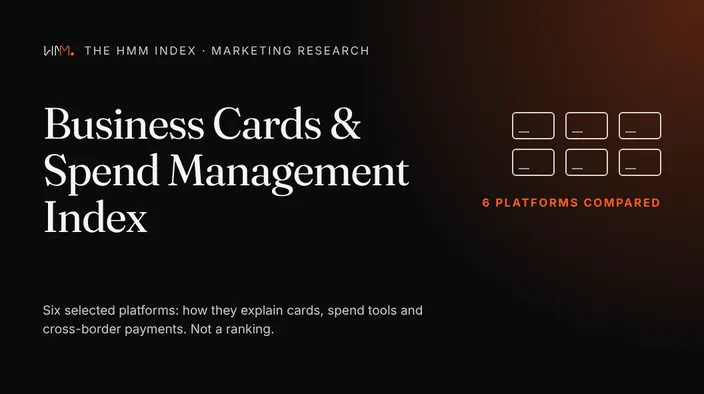
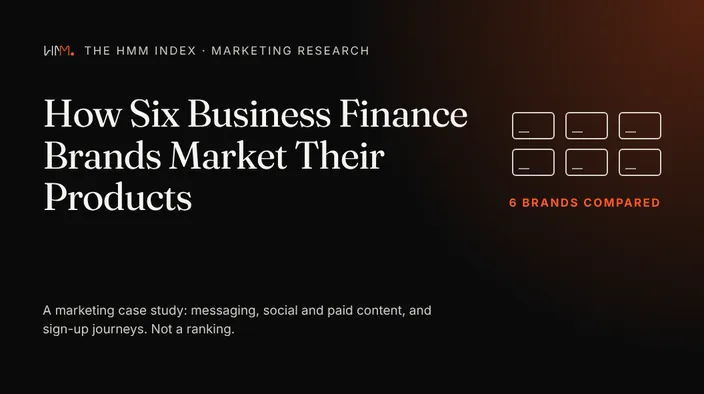
Business finance case study artwork with the current title
Regenerated hero.webp and hero-704.webp from artwork.html: How Six
Business Finance Brands Market Their Products, 6 brands compared, and
a case study line. Used by the HMM Index card and the finance page.

Claude-Session: https://claude.ai/code/session_018Zqg63gvGy44sVUM5NEbiy

Changed region(s): [[0.0625, 0.2437, 0.6875, 0.6091], [0.0625, 0.7614, 0.625, 0.8528], [0.6875, 0.4873, 0.8125, 0.5482]]

diff --git a/_kit/business-spend/artwork.html b/_kit/business-spend/artwork.html
@@ -6,7 +6,7 @@ html,body{margin:0;background:#0B0B0B}
 .art{position:relative;width:1056px;height:591px;overflow:hidden;background:radial-gradient(circle at 100% 0,rgba(255,90,31,.30),rgba(11,11,11,0) 44%),#0B0B0B;color:#F7F6F2;font-family:Inter,sans-serif}
 .k{position:absolute;left:64px;top:62px;display:flex;align-items:center;gap:13px;font-size:17px;letter-spacing:.14em;color:#CFCBC2}
 .k img{height:16px;width:auto}
-h1{position:absolute;left:64px;top:150px;width:640px;margin:0;font-family:Fraunces,serif;font-weight:400;font-size:66px;line-height:1.06;letter-spacing:-.02em;color:#F7F6F2}
+h1{position:absolute;left:64px;top:138px;width:660px;margin:0;font-family:Fraunces,serif;font-weight:400;font-size:58px;line-height:1.08;letter-spacing:-.02em;color:#F7F6F2}
 .cards{position:absolute;right:64px;top:168px;display:grid;grid-template-columns:repeat(3,64px);gap:14px 16px}
 .cards span{width:64px;height:41px;border:2px solid #F7F6F2;border-radius:6px;opacity:.85;box-sizing:border-box;position:relative}
 .cards span::after{content:"";position:absolute;left:8px;bottom:8px;width:16px;height:2px;background:#F7F6F2;opacity:.7}
@@ -14,8 +14,8 @@ h1{position:absolute;left:64px;top:150px;width:640px;margin:0;font-family:Fraunc
 .sub{position:absolute;left:64px;top:452px;width:620px;font-size:19px;line-height:1.45;color:#CFCBC2}
 </style></head><body>
 <div class="art"><div class="k"><img src="/assets/brand/hmm-mark.svg" alt="">THE HMM INDEX &middot; MARKETING RESEARCH</div>
-<h1>Business Cards &amp; Spend Management Index</h1>
+<h1>How Six Business Finance Brands Market Their Products</h1>
 <div class="cards"><span></span><span></span><span></span><span></span><span></span><span></span></div>
-<div class="tag">6 PLATFORMS COMPARED</div>
-<div class="sub">Six selected platforms: how they explain cards, spend tools and cross-border payments. Not a ranking.</div></div>
+<div class="tag">6 BRANDS COMPARED</div>
+<div class="sub">A marketing case study: messaging, social and paid content, and sign-up journeys. Not a ranking.</div></div>
 </body></html>

diff --git a/docs/HMM_Design_System.md b/docs/HMM_Design_System.md
@@ -1600,6 +1600,7 @@ No inline styles, no Review or Rating markup; JSON-LD is BreadcrumbList, Article
 - **Business Spend Index Opportunities tab (2026-11-01, founder; log in `_kit/business-spend/SECTION_REVIEW.md` section 27)**: the Lessons tab is labelled Opportunities (anchor `#bs-lessons` kept); it opens with `dl.bs-stats` (opportunities by area), and each `li.bs-opp` starts with a `p.pd-chips` area chip 8px above its `h4`. Desktop tab bar (from 901px): `.bs-tablist` gap 4px, links `padding:6px 9px`.
 - **Business Spend Index Sources & evidence look (2026-11-01, founder; log in `_kit/business-spend/SECTION_REVIEW.md` section 28)**: `#bs-sources` opens with `dl.bs-stats`; `.bs-reftoc ol` is a grid (3, 2 at 900px, 1 at 720px; 12px gaps, 8px on phones) of link tiles (`--bg-elevated`, 1px `--border`, `--r2`, 14px 16px padding, 10px 14px on phones; orange border on hover, focus ring) numbered by a CSS counter in a 28px tinted tile; each `details.bs-refsec` summary `h3` carries the same counter tile.
 - **Finance page research card (2026-11-02, founder)**: `/industries/finance` Examples (eyebrow now plural) holds two `.ind2-proof` cards: Equiton (label "Client work") and the business finance case study (label "Research", artwork `/assets/index/business-spend/hero.webp` with the hero `srcset`, link "Read the case study" to `/business-spend-index`). A label is `p.ind2-k` inside `.ind2-proof-body` (12px uppercase, `--text-tertiary`, 8px above the name); stacked proof cards sit 24px apart (`.ind2-proof + .ind2-proof`). The research card states counts only as source counts, never as a result, so no Mint figure.
+- **Business finance case study artwork (2026-11-02, founder)**: `/assets/index/business-spend/hero.webp` (1056x591) and `hero-704.webp`, rendered from `_kit/business-spend/artwork.html`, now carry the current title "How Six Business Finance Brands Market Their Products" (Fraunces 58px, was 66px for the shorter old name), the tag "6 BRANDS COMPARED" and the line "A marketing case study: messaging, social and paid content, and sign-up journeys. Not a ranking." Used by the `/hmm-index` card and the `/industries/finance` research card; the edition 001 snapshot does not use it.
 - **Hub card artwork (2026-10-23)**: `/assets/index/business-spend/hero.webp` (1056x591) and `hero-704.webp`, rendered by Playwright from `_kit/business-spend/artwork.html` in the Med Spa card pattern (kicker, Fraunces title, six outline card shapes, "6 PLATFORMS COMPARED" in Signal Orange, a one-line description; no provider screenshots, logos or colours). Used by the release's hub card (it was also the page's hero card from 27 to 28 October 2026; removed from the hero by the founder brief of 2026-10-28).
 - **Business Spend Index refinement pass (2026-10-31, founder brief; log in `_kit/business-spend/SECTION_REVIEW.md` section 7)**: Product Comparison is one `#bs-cmp-area` with `div.pd-sel.bs-csel` buttons (`button.pd-opt.bs-copt[data-cat]`, aria-pressed) over three `div.bs-cpanel` (cards, fees, tools; the old `glance_table`, `.bs-cmp-sel` and `.bs-bopt` are gone); with JavaScript the category headings are visually hidden, without it and in print every category shows; script `data-bs-cmp` also opens the category holding a linked row. Later evidence in a cell is `a.bs-fu-tag` (dashed pill) or `span.cell-sub.bs-recheck`. Paid audience uses the same `.pd-sel` switch as the creative mix (the `data-pd-mix` script now handles every `#bs-paid .pd-sec`); stage keys show zero stages as `li.pd-zero`. Lessons are four `article.bs-lesson` cards in `.bs-lessons` (two columns, one at 900px; padding 24px, 20px at 720px) with stacked What stood out / What to try / What to measure, and the earlier test anchors as empty `span.bs-anchor` elements. Sources & evidence sections are `details.bs-refsec` with the `h3` inside the summary and a rotating chevron; Scope opens by default.
 - **Business Spend Index targeted fixes (2026-10-31, founder)**: Product Comparison cells carry no links (the `a.bs-fu-tag` pill and the linked `st-undetermined` label are gone; uncertainty labels are `span.st`, the Airwallex follow-up is one `span.bs-restr.bs-fu-line` in the brand cell, rechecks are `span.cell-sub.bs-recheck`). Evidence quotes (`blockquote` in `ev_item`) that open with "+", "-", "*" or "#" are wrapped in quotation marks so text extractors do not read a stray bullet.
